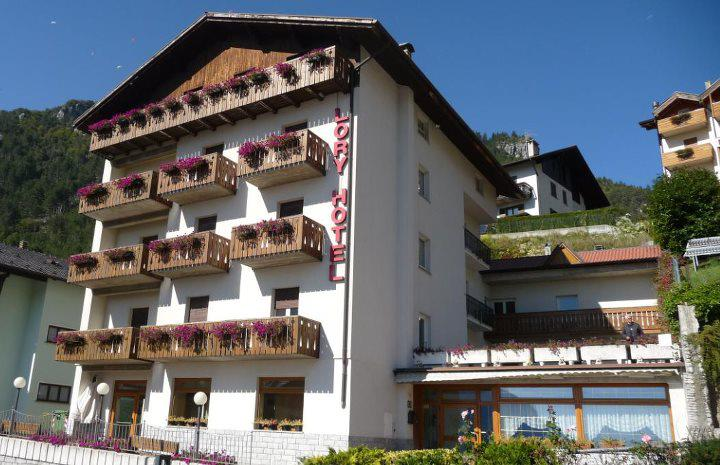
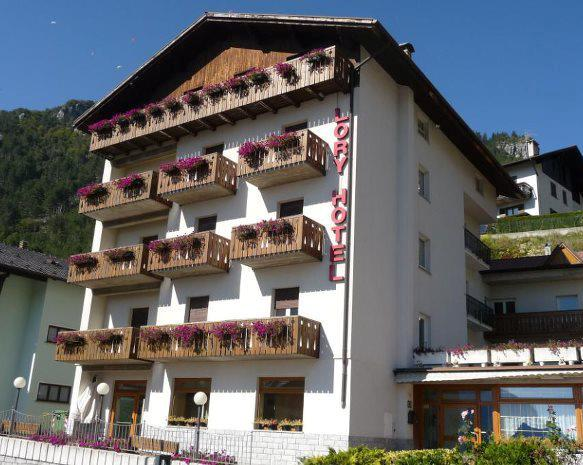
Foto Hotel Lory in locatie sectie

diff --git a/site1/index.html b/site1/index.html
@@ -302,7 +302,7 @@
                         </div>
                     </div>
                     <div class="col-xs-4 col-xs-push-1 vvf-locatie-div">
-                        <img class="vvf-locatie-img"  src="img/Molveno2.jpg" alt="">
+                        <img class="vvf-locatie-img"  src="img/HotelLory2.jpg" alt="">
                     </div>
                 </div>
                 
